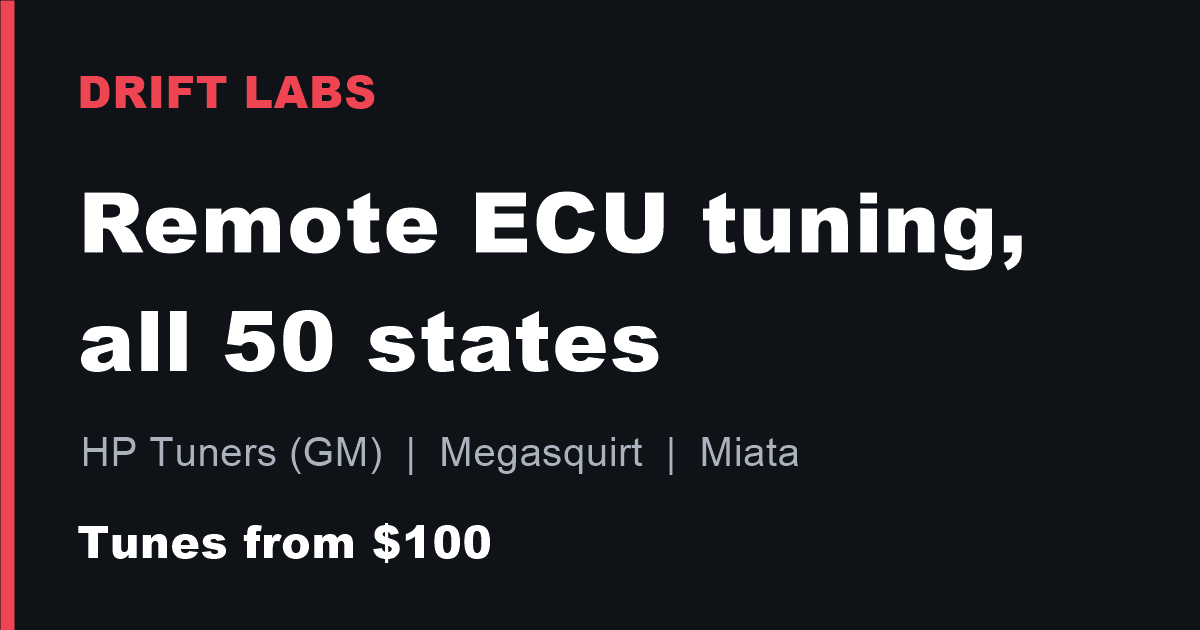
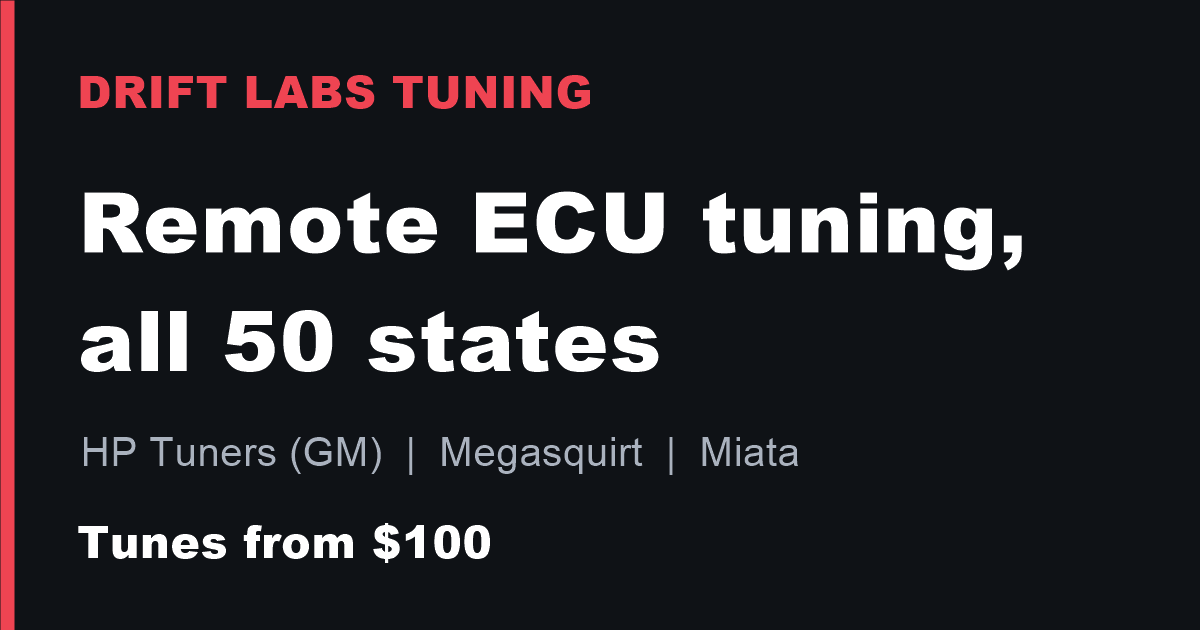
Titles and preview image: Drift Labs Tuning

Changed region(s): [[0.3083, 0.1206, 0.4933, 0.181]]

diff --git a/index.html b/index.html
@@ -3,25 +3,25 @@
 <head>
 <meta charset="utf-8">
 <meta name="viewport" content="width=device-width, initial-scale=1, viewport-fit=cover">
-<meta name="description" content="Drift Labs: professional remote ECU tuning in all 50 states. Megasquirt tuning for any vehicle (NA and NB Miata specialists) and HP Tuners tuning for GM cars and trucks like Corvette, Camaro and Silverado. 10+ years in the tuning business. Tunes from $100.">
+<meta name="description" content="Drift Labs Tuning: professional remote ECU tuning in all 50 states. Megasquirt tuning for any vehicle (NA and NB Miata specialists) and HP Tuners tuning for GM cars and trucks like Corvette, Camaro and Silverado. 10+ years in the tuning business. Tunes from $100.">
 <meta name="keywords" content="Drift Labs, remote tuning, Megasquirt tuning, MSPNP tune, TunerStudio, Miata tuning, HP Tuners remote tune, Corvette tune, Silverado tune, Camaro tune, GM remote tuning, LS tune">
 <link rel="canonical" href="https://driftlabstuning.com/">
 <meta property="og:type" content="website">
 <meta property="og:url" content="https://driftlabstuning.com/">
-<meta property="og:site_name" content="Drift Labs">
-<meta property="og:image" content="https://driftlabstuning.com/share.png">
+<meta property="og:site_name" content="Drift Labs Tuning">
+<meta property="og:image" content="https://driftlabstuning.com/share.png?v=2">
 <meta property="og:image:width" content="1200">
 <meta property="og:image:height" content="630">
 <meta name="twitter:card" content="summary_large_image">
-<script type="application/ld+json">{"@context":"https://schema.org","@graph":[{"@type":"Service","name":"Remote ECU tuning","serviceType":"Remote ECU tuning","areaServed":{"@type":"Country","name":"United States"},"provider":{"@type":"Organization","name":"Drift Labs","url":"https://driftlabstuning.com/"},"offers":[{"@type":"Offer","name":"Base Tune","price":"100","priceCurrency":"USD","url":"https://driftlabstuning.com/#pricing"},{"@type":"Offer","name":"Daily Tune","price":"200","priceCurrency":"USD","url":"https://driftlabstuning.com/#pricing"},{"@type":"Offer","name":"Custom Tune","price":"350","priceCurrency":"USD","url":"https://driftlabstuning.com/#pricing"}]},{"@type":"FAQPage","mainEntity":[{"@type":"Question","name":"Which package do I need?","acceptedAnswer":{"@type":"Answer","text":"The Base Tune gets a stock vehicle or a fresh Megasquirt install started and running right. The Daily Tune adds the drivability work a street car needs, like idle, cold start and part throttle. The Custom Tune is built around your exact goals, with up to four revision rounds. Built, cammed or boosted vehicles should get the Custom Tune."}},{"@type":"Question","name":"Can you tune my factory ECU?","acceptedAnswer":{"@type":"Answer","text":"For GM cars and trucks, yes. HP Tuners flashes the factory computer. Many older vehicles, like the NA and NB Miata, have factory ECUs that can't be reflashed, so they need a Megasquirt."}},{"@type":"Question","name":"What vehicles do you tune?","acceptedAnswer":{"@type":"Answer","text":"Any vehicle running a Megasquirt ECU, and GM cars and trucks supported by HP Tuners. Not sure if yours qualifies? Choose \"Not sure\" on the order form and tell us what you have."}},{"@type":"Question","name":"Do you do AFM / DFM (DOD) deletes?","acceptedAnswer":{"@type":"Answer","text":"Yes, on GM cars, trucks and SUVs, for racing use only. We can turn off cylinder deactivation in the tune, or tune a vehicle that has a full AFM/DFM delete kit (lifters, cam and valley cover) installed. List your parts in the order form."}},{"@type":"Question","name":"Do you do emissions deletes?","acceptedAnswer":{"@type":"Answer","text":"No. We don't write tunes that remove or disable emissions equipment such as catalytic converters, EGR or DPF systems."}},{"@type":"Question","name":"How long does it take?","acceptedAnswer":{"@type":"Answer","text":"Your tune usually goes out within a few hours of getting your files, and each revision within a few hours of getting your new logs. How long the whole process takes mostly depends on how quickly you can drive and log."}},{"@type":"Question","name":"Can a tune hurt my engine?","acceptedAnswer":{"@type":"Answer","text":"We build every tune conservatively, with your engine's safety first, and check it against your own logs. Engine trouble usually traces back to something mechanical, like worn parts, low fuel pressure, vacuum leaks or bad sensors. That's why we ask about codes and known problems before we start. A tune can't repair a mechanical problem, so your vehicle needs to be in good shape first."}},{"@type":"Question","name":"What if I add mods later?","acceptedAnswer":{"@type":"Answer","text":"Bigger injectors, a cam, a new turbo or a big change in boost need a re-tune. Small bolt-ons often only need a revision round. Send us the details and we'll tell you which one you need."}},{"@type":"Question","name":"Do you offer refunds?","acceptedAnswer":{"@type":"Answer","text":"No. All purchases are final and we don't offer refunds."}},{"@type":"Question","name":"How do I pay?","acceptedAnswer":{"@type":"Answer","text":"Checkout runs through Stripe, so you can pay with any major card, Apple Pay, Cash App Pay or Amazon Pay, or pay over time with Klarna if you qualify. Your card details go to Stripe and never touch this site."}},{"@type":"Question","name":"Is this street legal?","acceptedAnswer":{"@type":"Answer","text":"Tunes are sold for off-road and competition use only. Check your state's emissions and inspection rules before driving a modified vehicle on public roads."}}]}]}</script>
-<meta property="og:title" content="Drift Labs | Professional Remote Megasquirt &amp; HP Tuners Tuning">
+<script type="application/ld+json">{"@context":"https://schema.org","@graph":[{"@type":"Service","name":"Remote ECU tuning","serviceType":"Remote ECU tuning","areaServed":{"@type":"Country","name":"United States"},"provider":{"@type":"Organization","name":"Drift Labs Tuning","url":"https://driftlabstuning.com/"},"offers":[{"@type":"Offer","name":"Base Tune","price":"100","priceCurrency":"USD","url":"https://driftlabstuning.com/#pricing"},{"@type":"Offer","name":"Daily Tune","price":"200","priceCurrency":"USD","url":"https://driftlabstuning.com/#pricing"},{"@type":"Offer","name":"Custom Tune","price":"350","priceCurrency":"USD","url":"https://driftlabstuning.com/#pricing"}]},{"@type":"FAQPage","mainEntity":[{"@type":"Question","name":"Which package do I need?","acceptedAnswer":{"@type":"Answer","text":"The Base Tune gets a stock vehicle or a fresh Megasquirt install started and running right. The Daily Tune adds the drivability work a street car needs, like idle, cold start and part throttle. The Custom Tune is built around your exact goals, with up to four revision rounds. Built, cammed or boosted vehicles should get the Custom Tune."}},{"@type":"Question","name":"Can you tune my factory ECU?","acceptedAnswer":{"@type":"Answer","text":"For GM cars and trucks, yes. HP Tuners flashes the factory computer. Many older vehicles, like the NA and NB Miata, have factory ECUs that can't be reflashed, so they need a Megasquirt."}},{"@type":"Question","name":"What vehicles do you tune?","acceptedAnswer":{"@type":"Answer","text":"Any vehicle running a Megasquirt ECU, and GM cars and trucks supported by HP Tuners. Not sure if yours qualifies? Choose \"Not sure\" on the order form and tell us what you have."}},{"@type":"Question","name":"Do you do AFM / DFM (DOD) deletes?","acceptedAnswer":{"@type":"Answer","text":"Yes, on GM cars, trucks and SUVs, for racing use only. We can turn off cylinder deactivation in the tune, or tune a vehicle that has a full AFM/DFM delete kit (lifters, cam and valley cover) installed. List your parts in the order form."}},{"@type":"Question","name":"Do you do emissions deletes?","acceptedAnswer":{"@type":"Answer","text":"No. We don't write tunes that remove or disable emissions equipment such as catalytic converters, EGR or DPF systems."}},{"@type":"Question","name":"How long does it take?","acceptedAnswer":{"@type":"Answer","text":"Your tune usually goes out within a few hours of getting your files, and each revision within a few hours of getting your new logs. How long the whole process takes mostly depends on how quickly you can drive and log."}},{"@type":"Question","name":"Can a tune hurt my engine?","acceptedAnswer":{"@type":"Answer","text":"We build every tune conservatively, with your engine's safety first, and check it against your own logs. Engine trouble usually traces back to something mechanical, like worn parts, low fuel pressure, vacuum leaks or bad sensors. That's why we ask about codes and known problems before we start. A tune can't repair a mechanical problem, so your vehicle needs to be in good shape first."}},{"@type":"Question","name":"What if I add mods later?","acceptedAnswer":{"@type":"Answer","text":"Bigger injectors, a cam, a new turbo or a big change in boost need a re-tune. Small bolt-ons often only need a revision round. Send us the details and we'll tell you which one you need."}},{"@type":"Question","name":"Do you offer refunds?","acceptedAnswer":{"@type":"Answer","text":"No. All purchases are final and we don't offer refunds."}},{"@type":"Question","name":"How do I pay?","acceptedAnswer":{"@type":"Answer","text":"Checkout runs through Stripe, so you can pay with any major card, Apple Pay, Cash App Pay or Amazon Pay, or pay over time with Klarna if you qualify. Your card details go to Stripe and never touch this site."}},{"@type":"Question","name":"Is this street legal?","acceptedAnswer":{"@type":"Answer","text":"Tunes are sold for off-road and competition use only. Check your state's emissions and inspection rules before driving a modified vehicle on public roads."}}]}]}</script>
+<meta property="og:title" content="Drift Labs Tuning | Professional Remote Megasquirt &amp; HP Tuners Tuning">
 <meta property="og:description" content="Remote Megasquirt and HP Tuners (GM) tuning anywhere in the US. 10+ years in the tuning business. Tunes from $100.">
 <style>[hidden]{display:none!important}body{margin:0}img{max-width:100%}</style>
 <link rel="icon" type="image/png" href="icon-32.png">
 <link rel="apple-touch-icon" href="icon-180.png">
 <link rel="manifest" href="site.webmanifest">
 <meta name="theme-color" content="#0f1216">
-<title>Remote HP Tuners &amp; Megasquirt Tuning | Drift Labs</title>
+<title>Remote HP Tuners &amp; Megasquirt Tuning | Drift Labs Tuning</title>
 <link rel="preconnect" href="https://fonts.googleapis.com">
 <link rel="stylesheet" href="https://fonts.googleapis.com/css2?family=Archivo:wght@500;700;800;900&family=IBM+Plex+Sans:wght@400;500;600&family=IBM+Plex+Mono:wght@400;500&display=swap">
 <style>

diff --git a/privacy.html b/privacy.html
@@ -4,7 +4,7 @@
 <link rel="apple-touch-icon" href="icon-180.png">
 <link rel="manifest" href="site.webmanifest">
 <meta name="theme-color" content="#0f1216">
-<title>Privacy Policy | Drift Labs</title>
+<title>Privacy Policy | Drift Labs Tuning</title>
 <link rel="stylesheet" href="https://fonts.googleapis.com/css2?family=Archivo:wght@700;800;900&family=IBM+Plex+Sans:wght@400;500;600&family=IBM+Plex+Mono:wght@400;500&display=swap">
 <link rel="stylesheet" href="portal.css"></head><body><div class="wrap">
 <nav><a class="brand" href="./">Drift Labs <span>Tuning</span></a><div class="nav-right"><a href="./">Home</a></div></nav>

diff --git a/portal.html b/portal.html
@@ -7,7 +7,7 @@
 <link rel="apple-touch-icon" href="icon-180.png">
 <link rel="manifest" href="site.webmanifest">
 <meta name="theme-color" content="#0f1216">
-<title>Customer Portal | Drift Labs</title>
+<title>Customer Portal | Drift Labs Tuning</title>
 <meta name="description" content="Sign in to your Drift Labs portal to order a tune, message your tuner and track your revisions.">
 <link rel="preconnect" href="https://fonts.googleapis.com">
 <link rel="stylesheet" href="https://fonts.googleapis.com/css2?family=Archivo:wght@700;800;900&family=IBM+Plex+Sans:wght@400;500;600&family=IBM+Plex+Mono:wght@400;500&display=swap">

diff --git a/admin.html b/admin.html
@@ -8,7 +8,7 @@
 <link rel="apple-touch-icon" href="icon-180.png">
 <link rel="manifest" href="site.webmanifest">
 <meta name="theme-color" content="#0f1216">
-<title>Admin | Drift Labs</title>
+<title>Admin | Drift Labs Tuning</title>
 <link rel="preconnect" href="https://fonts.googleapis.com">
 <link rel="stylesheet" href="https://fonts.googleapis.com/css2?family=Archivo:wght@700;800;900&family=IBM+Plex+Sans:wght@400;500;600&family=IBM+Plex+Mono:wght@400;500&display=swap">
 <link rel="stylesheet" href="portal.css">
